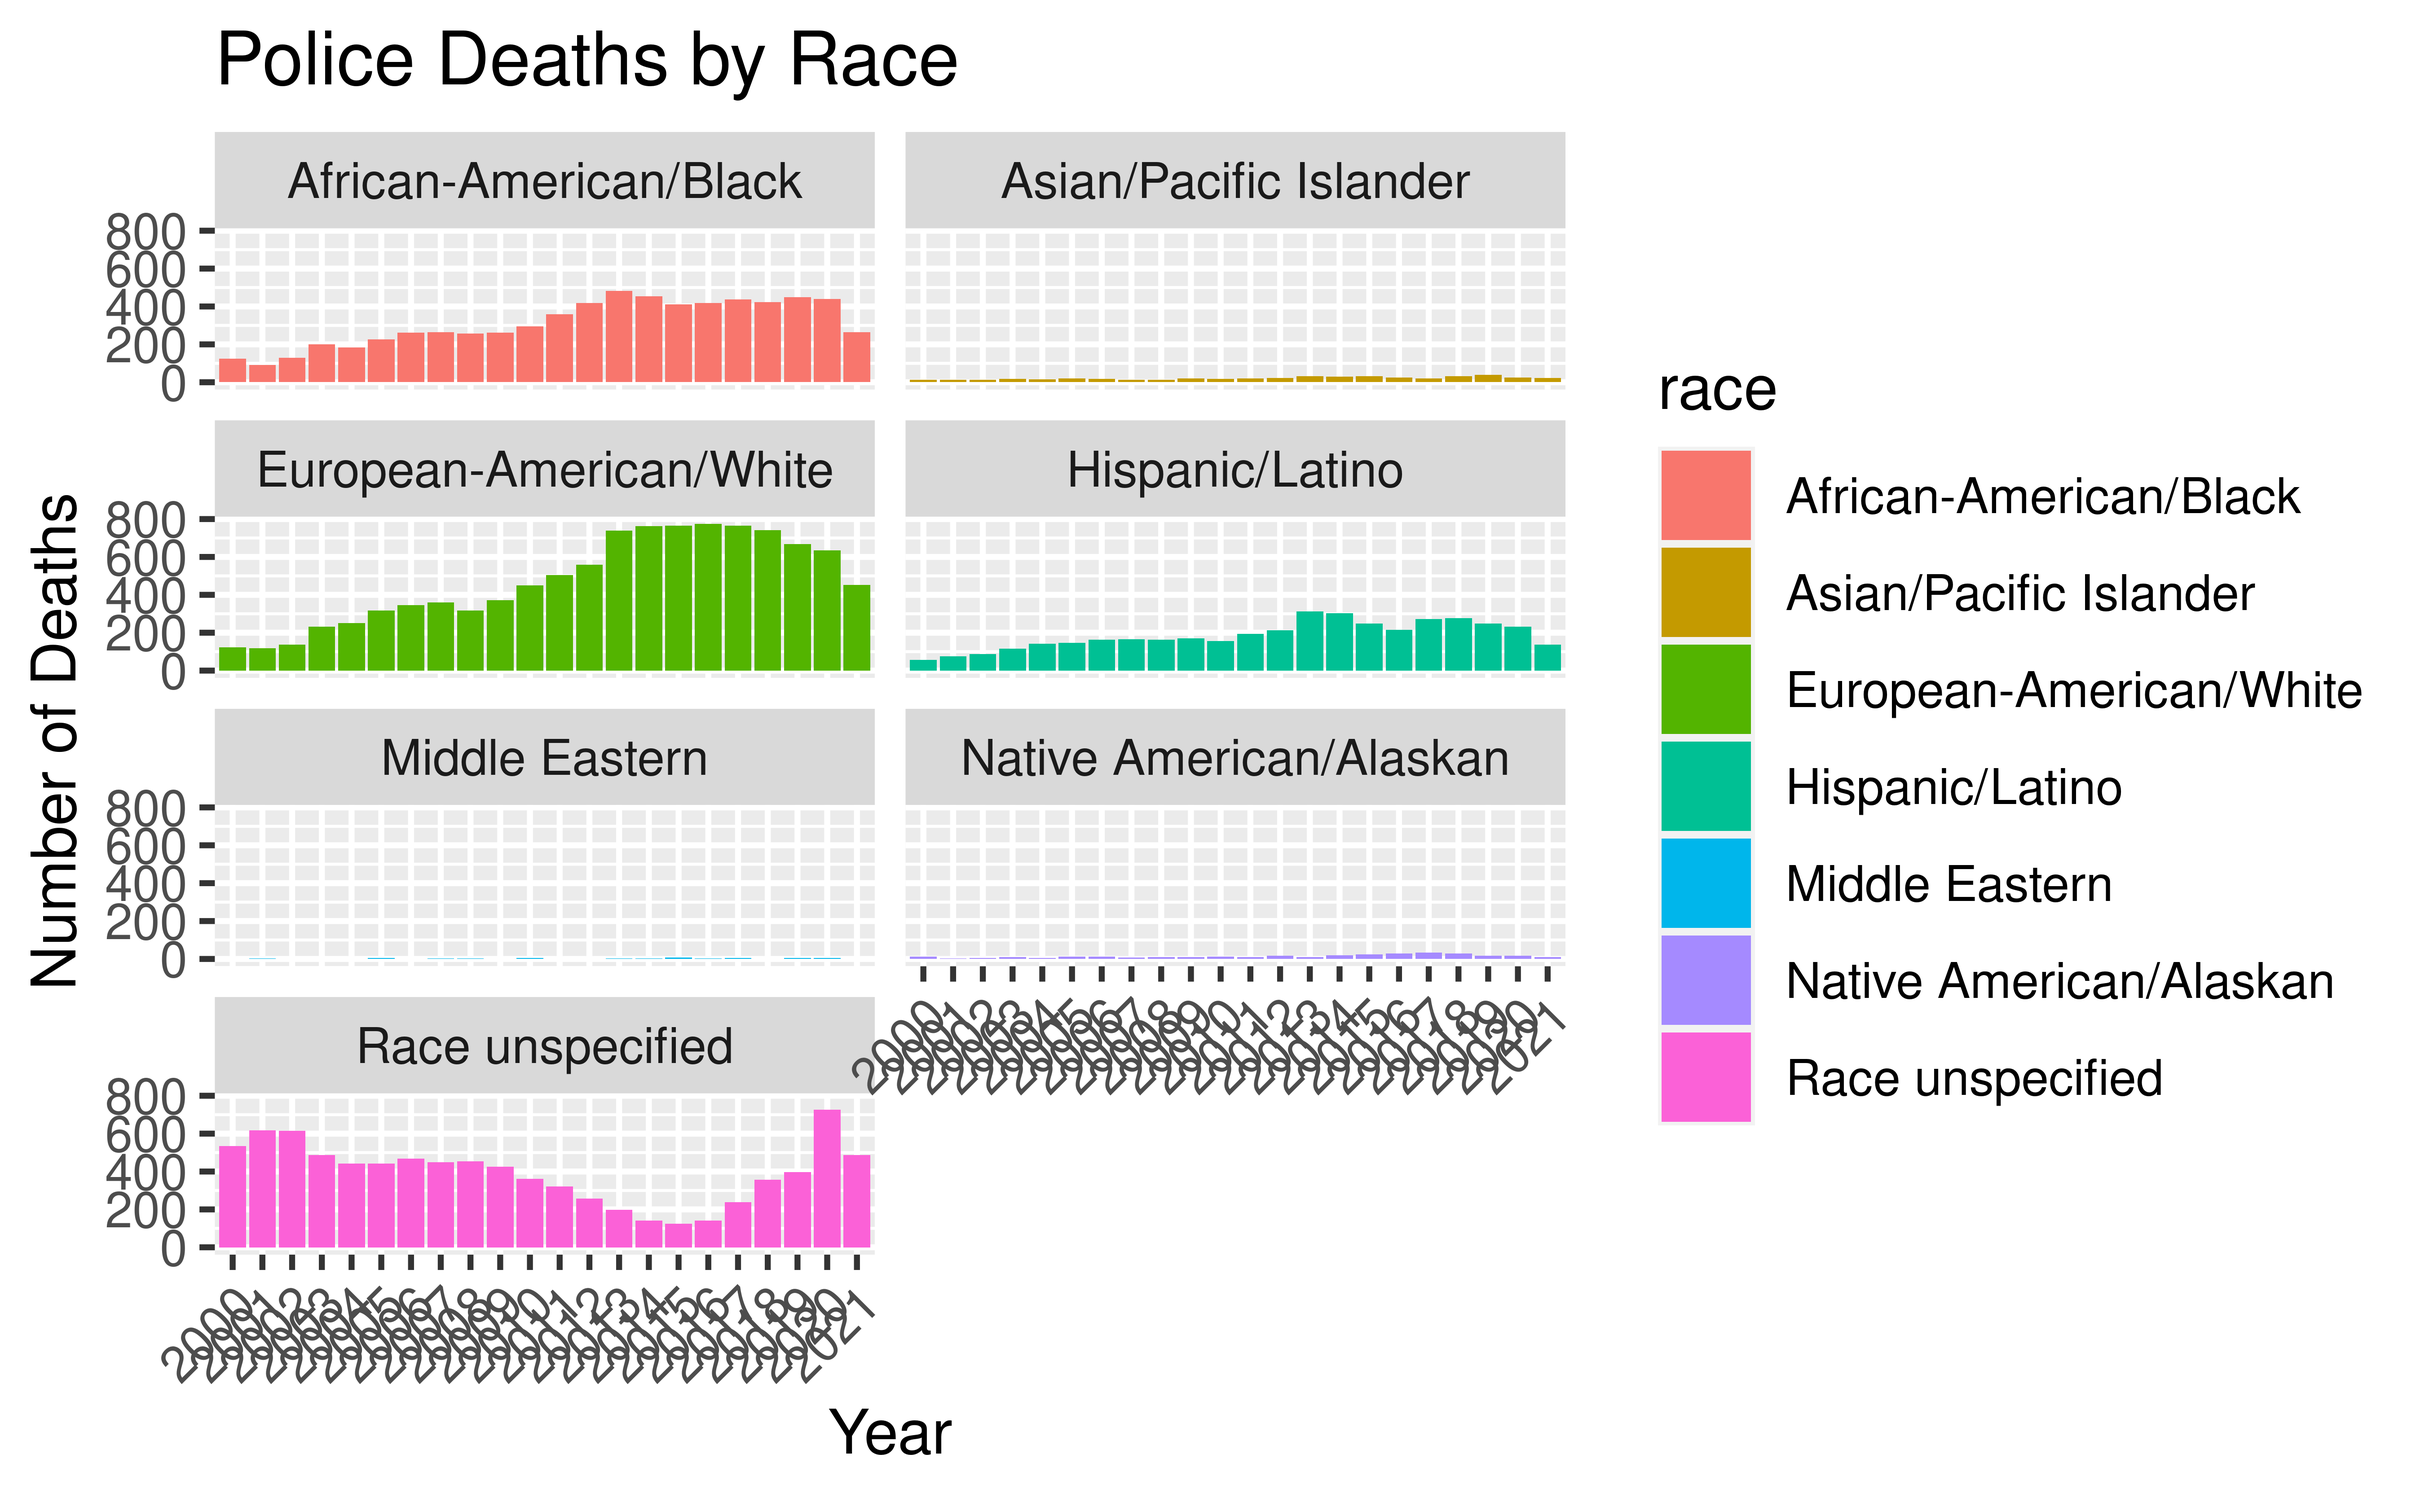
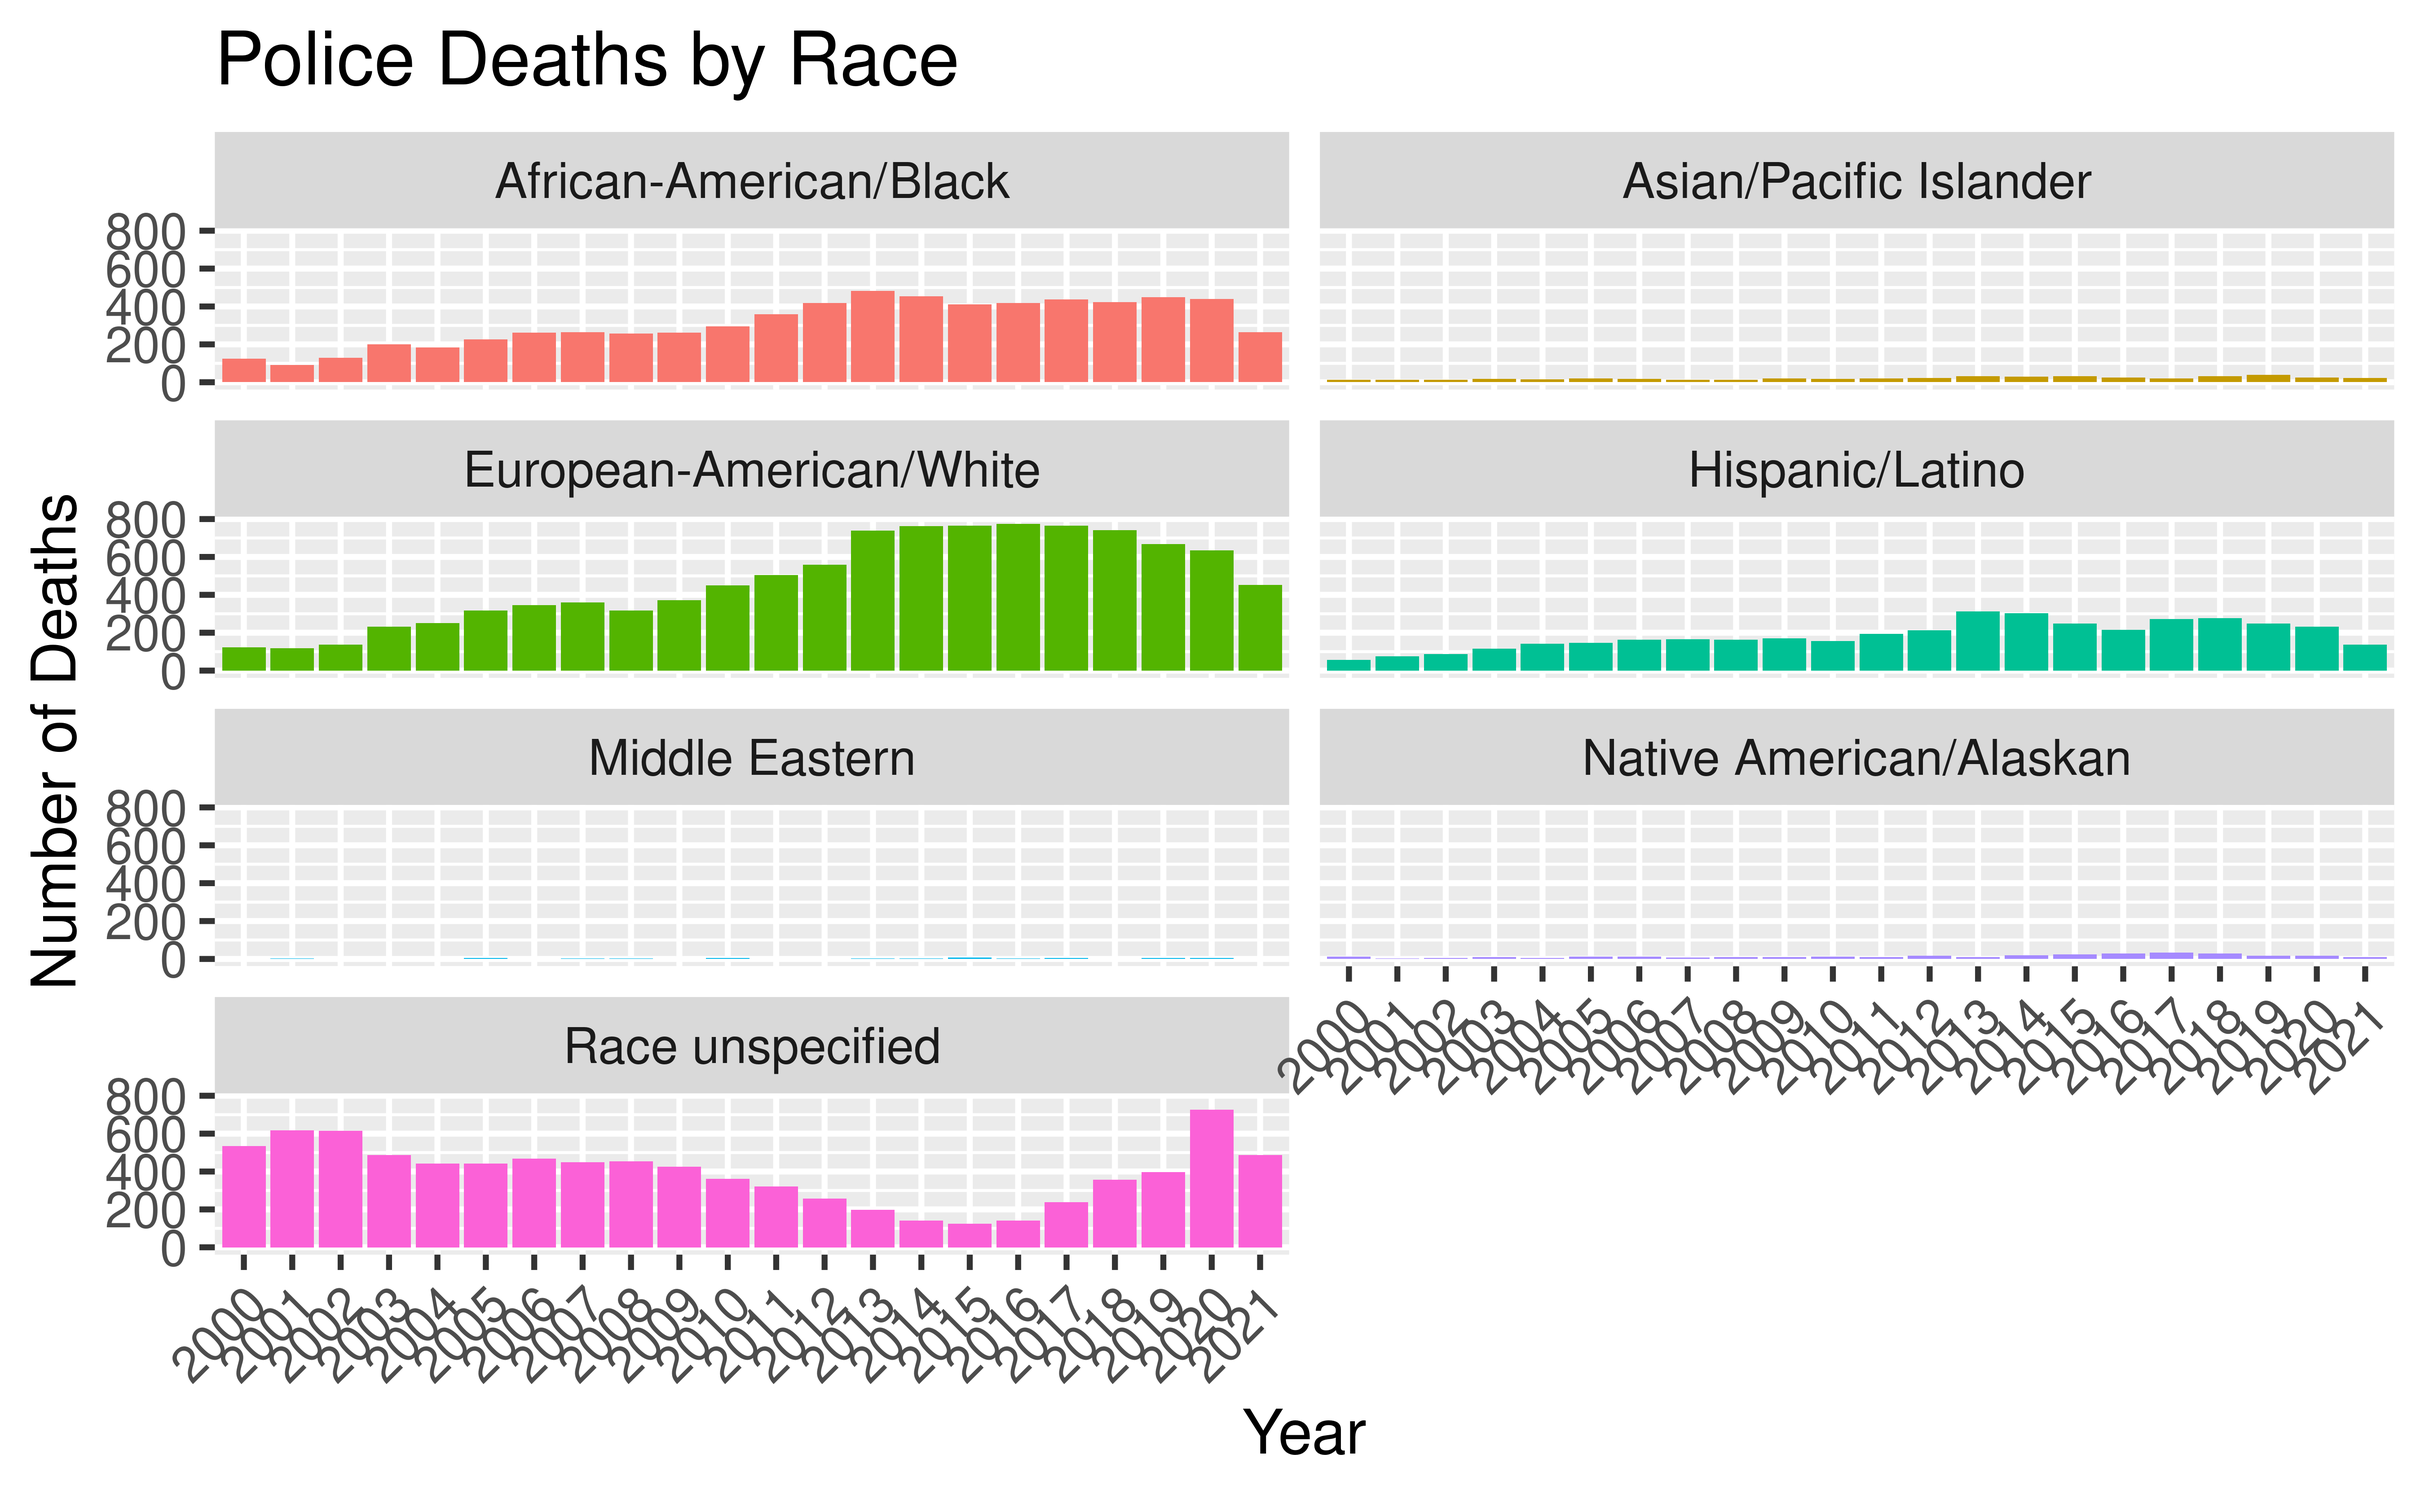
Adding to presentation

diff --git a/presentation/xaringan_template/presentation.html b/presentation/xaringan_template/presentation.html
@@ -1,7 +1,7 @@
 <!DOCTYPE html>
 <html lang="" xml:lang="">
   <head>
-    <title>Innocent Death’s caused by Police Project</title>
+    <title>Investigating factors which could affect the likelihood of a person getting killed by the police</title>
     <meta charset="utf-8" />
     <meta name="author" content="I Have Never Coded Before  Abhey Reuben Mieke" />
     <meta name="date" content="2021-11-30" />
@@ -12,8 +12,7 @@
     <textarea id="source">
 class: center, middle, inverse, title-slide
 
-# Innocent Death’s caused by Police Project
-## Presentation subtitle (if any)
+# Investigating factors which could affect the likelihood of a person getting killed by the police
 ### I Have Never Coded Before<br> Abhey Reuben Mieke
 ### University of Edinburgh
 ### 2021-11-30
@@ -37,22 +36,38 @@ output: html_document
 
 class: center, middle
 
-To see if there is a correlation between dying by the police and being innocent. We started off the presentation thinking there's no correlation.
+HYPOTHESIS
 ---
+class: center, middle
+
+Examples of tidying the data set
 
 
 
 
 ```r
-police_data &lt;- police_data %&gt;%
-  mutate(state = case_when(state == c(state) ~ abbr2state(c(state)))) %&gt;% 
-  mutate(year = str_sub(doi,-4,-1))
+police_data &lt;- police_data %&gt;% 
+  mutate(year = str_sub(doi,-4,-1)) %&gt;% 
+  mutate(race = case_when(
+      name == "Oliver Sevin Frazier-Savoy" ~ "European-American/White",
+      TRUE ~ race))
 ```
+
+
+
+
+
 
 
 ---
 &lt;img src="presentation_files/figure-html/first_graph-1.png" width="80%" /&gt;
 ---
+&lt;img src="presentation_files/figure-html/addition_to_first_graph-1.png" width="80%" /&gt;
+
+---
+
+class: center, middle
+
 # Grouped States by First Zip
 
 &lt;div class="figure" style="text-align: center"&gt;
